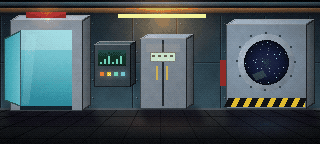
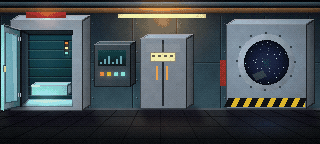
Hinged-door, recess and hanging-garment tools; rebuild the cryo door and the open locker with real depth
Claude-Session: https://claude.ai/code/session_01KMMpWo1pAxVCtPqbSi1RBM

diff --git a/tools/paint/solid.py b/tools/paint/solid.py
@@ -327,3 +327,104 @@ def building(p, x, y, w, h, dx, dy, wall, roof, seed=1):
     mf, mt, ms = box(p, x, y, w, h, dx, dy, wall, seed=seed, tex=0.08)
     p.fill(mt, p.lin(0, y - dy, 0, y, roof, roof), 0.0)
     return mf, mt, ms
+
+
+# ====================================================================== doors and cavities (from the style analysis)
+def _lerp(a, b, t):
+    return a + (b - a) * t
+
+
+def hinged_door(p, hx, y0, y1, dx, base, side=-1, eye=70.0, scale=1.12, panels=2, handle=True, glass=None, seed=1, shade_k=0.78):
+    """A door leaf hinged at x=hx, swung open towards the viewer.
+    The free edge is dx away from the hinge (side=-1: to the left) and is TALLER than the hinge edge (perspective about eye).
+    The leaf has a visible edge (thickness), hinges, inset panels (or a glass pane) and a handle, and throws a shadow."""
+    fx = hx + side * dx
+    ty = eye - (eye - y0) * scale
+    by = eye + (y1 - eye) * scale
+    poly = [(hx, y0), (fx, ty), (fx, by), (hx, y1)]
+
+    def at(u, v):   # u: 0 at the hinge .. 1 at the free edge; v: 0 top .. 1 bottom
+        x = _lerp(hx, fx, u)
+        return (x, _lerp(_lerp(y0, ty, u), _lerp(y1, by, u), v))
+
+    # shadows first: on the wall behind (falls right and down) and on the floor in front of the door
+    soft_shadow(p, [(x + 5, y + 1.5) for x, y in poly], 0.42, 1.0)
+    soft_shadow(p, [(fx, by), (hx, y1), (hx + 12, y1 + 3.5), (fx + 12, by + 3.5)], 0.38, 1.4)
+    # the leaf: its inner face is turned away from the key light, so it is darker than the outer face
+    m = plane(p, poly, base, shade_k, angle=(-1, 0), spread=0.5, tex=0.04, seed=seed, edge=0.5)
+    # thickness: a lit strip on the free edge and a thin strip along the top
+    edge_strip = [(fx, ty), (fx - 2 * (-side) * -1, ty + 0.5), (fx - 2 * (-side) * -1, by - 0.5), (fx, by)]
+    p.fill(p.m_poly([(fx, ty), (fx + side * 2, ty + 0.6), (fx + side * 2, by - 0.6), (fx, by)]), rgb(base) * 1.5 if isinstance(base, str) else base)
+    p.fill(p.m_poly([(fx, ty), (fx + side * 2, ty + 0.6), (fx + side * 2, by - 0.6), (fx, by)]), (255, 255, 255), 0.18)
+    p.fill(p.m_line(hx, y0 - 1, fx, ty - 1, 1), (255, 255, 255), 0.4)
+    # hinge edge: a dark crease and two small hinges
+    p.fill(p.m_line(hx, y0, hx, y1, 2), (0, 0, 0), 0.55)
+    for v in (0.12, 0.86):
+        hy = _lerp(y0, y1, v)
+        p.fill(p.m_rect(hx - 1.5, hy - 2, hx + 1.5, hy + 2), (200, 205, 215))
+        p.fill(p.m_rect(hx - 0.5, hy - 2, hx + 0.5, hy + 2), (60, 64, 76))
+    if glass is not None:
+        a, b, c, d = at(0.14, 0.07), at(0.86, 0.07), at(0.86, 0.93), at(0.14, 0.93)
+        gm = p.m_poly([a, b, c, d])
+        p.fill(gm, rgb(glass) if isinstance(glass, str) else glass, 0.55)
+        p.fill(p.m_poly([at(0.24, 0.1), at(0.42, 0.1), at(0.30, 0.9), at(0.2, 0.9)]) & gm, (255, 255, 255), 0.30)
+        p.edge(gm, (0, 0, 0), 0.5)
+        p.edge(gm, (255, 255, 255), 0.25, "top")
+    else:
+        n = panels
+        for i in range(n):
+            v0 = 0.08 + i * (0.84 / n) + 0.02
+            v1 = 0.08 + (i + 1) * (0.84 / n) - 0.02
+            a, b, c, d = at(0.16, v0), at(0.84, v0), at(0.84, v1), at(0.16, v1)
+            inset = p.m_poly([a, b, c, d])
+            p.fill(inset, (0, 0, 0), 0.16)
+            p.fill(p.m_line(a[0], a[1], b[0], b[1], 1) & m, (0, 0, 0), 0.5)      # top and left inner edges are in shadow
+            p.fill(p.m_line(a[0], a[1], d[0], d[1], 1) & m, (0, 0, 0), 0.4)
+            p.fill(p.m_line(d[0], d[1], c[0], c[1], 1) & m, (255, 255, 255), 0.4)   # bottom and right inner edges catch light
+            p.fill(p.m_line(b[0], b[1], c[0], c[1], 1) & m, (255, 255, 255), 0.3)
+    if handle:
+        hxx, hyy = at(0.86, 0.52)
+        p.fill(p.m_rect(hxx - 1.5, hyy - 3.5, hxx + 1.5, hyy + 3.5), (0, 0, 0), 0.5)
+        p.fill(p.m_rect(hxx - 1, hyy - 3, hxx + 1, hyy + 3), (232, 214, 150))
+        p.fill(p.m_rect(hxx - 1, hyy - 3, hxx, hyy - 2), (255, 255, 255), 0.9)
+    return m
+
+
+def recess(p, x0, y0, x1, y1, d=7.0, wall="#4a5664", back_top="#0a0e14", back_bot="#03050a", floor_c="#8a96a6", seed=1):
+    """An opening with real depth: you see the left inner wall, the roof (dark), the floor (lit) and the back wall.
+    Returns the back wall rectangle (bx0, by0, bx1, by1)."""
+    dt, db = d * 0.6, d * 0.8
+    bx0, by0, bx1, by1 = x0 + d, y0 + dt, x1, y1 - db
+    p.fill(p.m_rect(bx0, by0, bx1, by1), p.lin(0, by0, 0, by1, back_top, back_bot))
+    lw = plane(p, [(x0, y0), (bx0, by0), (bx0, by1), (x0, y1)], wall, 0.62, angle=(-1, 0), spread=0.3, tex=0.03, seed=seed, edge=0.4)
+    plane(p, [(x0, y0), (x1, y0), (x1, by0), (bx0, by0)], wall, 0.3, angle=(0, -1), spread=0.2, tex=0.03, seed=seed + 1, edge=0.4)
+    plane(p, [(x0, y1), (bx0, by1), (x1, by1), (x1, y1)], floor_c, 1.0, angle=(0, -1), spread=0.3, tex=0.03, seed=seed + 2, edge=0.4)
+    # contact darkening where the walls meet the back wall
+    p.fill(p.m_rect(bx0, by0, bx0 + 2, by1), (0, 0, 0), 0.4)
+    p.fill(p.m_rect(bx0, by0, bx1, by0 + 2), (0, 0, 0), 0.4)
+    return bx0, by0, bx1, by1
+
+
+def hanging_garment(p, cx, top, h, base="#d8702a", trim=(240, 236, 226), seed=1):
+    """a uniform on a hanger: sloped shoulders, a V collar, folds, sleeves with cuffs, a hook, and a shadow on the wall behind"""
+    # shadow on the back wall
+    soft_shadow(p, [(cx - 8, top + 4), (cx + 14, top + 4), (cx + 16, top + h), (cx - 6, top + h)], 0.42, 1.2)
+    # hook and hanger
+    p.fill(p.m_line(cx, top - 3, cx, top + 1, 1), (210, 214, 224))
+    p.fill(p.m_poly([(cx - 10, top + 6), (cx, top + 1), (cx + 10, top + 6)]), (150, 154, 168))
+    # sleeves hang behind and beside the body
+    for sx, sgn, k in ((cx - 11, -1, 1.15), (cx + 8, 1, 0.55)):
+        sl = [(cx + sgn * 6, top + 7), (cx + sgn * 11, top + 9), (cx + sgn * 13.5, top + h * 0.78), (cx + sgn * 9, top + h * 0.8)]
+        plane(p, sl, base, k, angle=(-1, 0), spread=0.3, tex=0.04, seed=seed + 3, edge=0.5)
+        p.fill(p.m_poly([sl[3], sl[2], (sl[2][0], sl[2][1] + 3), (sl[3][0], sl[3][1] + 3)]), trim)
+    # body with a lit left side and a darker right side
+    body = [(cx - 7, top + 5), (cx - 3, top + 3), (cx + 3, top + 3), (cx + 7, top + 5), (cx + 8, top + h * 0.92), (cx - 8, top + h * 0.92)]
+    mb = plane(p, body, base, 1.0, angle=(-1, 0), spread=0.9, tex=0.05, seed=seed, edge=0.55)
+    # folds
+    for dx_ in (-4, -1, 3):
+        p.fill(p.m_line(cx + dx_, top + 12, cx + dx_ + 0.5, top + h * 0.9, 1) & mb, (0, 0, 0), 0.32)
+        p.fill(p.m_line(cx + dx_ - 1, top + 12, cx + dx_ - 0.5, top + h * 0.9, 1) & mb, (255, 220, 170), 0.2)
+    # white V collar and the hem band
+    p.fill(p.m_poly([(cx - 4, top + 3), (cx, top + 9), (cx + 4, top + 3), (cx + 2.5, top + 3), (cx, top + 6.5), (cx - 2.5, top + 3)]), trim)
+    p.fill(p.m_rect(cx - 8, top + h * 0.86, cx + 8, top + h * 0.92), trim)
+    p.fill(p.m_line(cx, top + 9, cx, top + h * 0.86, 1), (90, 44, 16), 0.5)

diff --git a/tools/paint/pilot.py b/tools/paint/pilot.py
@@ -60,16 +60,22 @@ def escape_pod(locker_open=False, uniform=True):
     from solid import box as sbox, soft_shadow as sshadow, sphere as ssphere
     sshadow(p, [(6, 108), (92, 108), (100, 124), (10, 126)], 0.55, 3.0)
     fr = sbox(p, 10, 20, 72, 90, 8, 5, "#8e9aa4", seed=2)[0]
-    inner = p.m_rect(20, 30, 72, 106)
-    p.fill(inner, p.lin(0, 30, 0, 106, "#9fe8f0", "#2a8ca0"))
-    p.fill(p.m_rect(20, 30, 72, 50), (255, 255, 255), 0.22)          # frost haze
-    p.fill(p.m_poly([(26, 34), (36, 34), (28, 104), (22, 104)]), (255, 255, 255), 0.14)   # glass glint
-    door = p.m_poly([(20, 30), (4, 38), (4, 100), (20, 106)])
-    p.fill(door, p.lin(4, 0, 20, 0, "#38b4c4", "#79d4e0"))
-    p.edge(door, (0, 0, 0), 0.5)
+    from solid import recess as _recess, hinged_door as _door, hanging_garment as _garment, cylinder_h as _cylh
+    bx0, by0, bx1, by1 = _recess(p, 20, 30, 72, 106, d=8, wall="#4a6a78", back_top="#0e3a48", back_bot="#041820", floor_c="#9ac8d4", seed=20)
+    for yy in range(int(by0) + 6, int(by1) - 4, 9):                                   # ribs on the back wall
+        p.fill(p.m_rect(bx0, yy, bx1, yy + 1), (0, 0, 0), 0.45)
+        p.fill(p.m_rect(bx0, yy + 1, bx1, yy + 2), (150, 230, 240), 0.14)
+    cot = sbox(p, bx0 + 3, by1 - 14, 36, 10, 4, 3, "#7ab8c8", seed=21, tex=0.04)[0]       # the padded cot
+    p.fill(p.m_rect(bx0 + 3, by1 - 14, bx0 + 12, by1 - 12), (240, 250, 255), 0.5)         # pillow
+    p.fill(p.m_rect(bx1 - 8, by0 + 6, bx1 - 3, by0 + 22), (6, 18, 22))                    # status strip with lights
+    for i, c in enumerate([(255, 90, 80), (255, 220, 90), (100, 240, 140)]):
+        p.fill(p.m_rect(bx1 - 7, by0 + 8 + i * 5, bx1 - 4, by0 + 10 + i * 5), c)
+        p.glow(bx1 - 5.5, by0 + 9 + i * 5, 6, c, 0.3)
+    p.glow(46, 98, 40, (160, 255, 255), 0.35, 0.5)                                         # cold mist at the floor of the chamber
+    p.glow(46, 60, 60, (120, 230, 255), 0.14, 1.2)
+    _door(p, 20, 30, 106, 17, "#6aa8b8", side=-1, glass="#9ae8f8", handle=True, seed=22)   # the glass door, swung open to the left
     p.fill(p.m_rect(26, 12, 66, 18), p.lin(0, 12, 0, 18, "#c04040", "#701818"))      # alarm light
     p.glow(46, 15, 26, (255, 70, 60), 0.45, 0.8)
-    p.fill(p.m_rect(20, 106, 72, 110), (20, 40, 50))
     # --- control panel
     sbox(p, 94, 44, 36, 42, 5, 3, "#3a4650", seed=3)
     scr = p.m_rect(98, 50, 126, 66)
@@ -95,21 +101,14 @@ def escape_pod(locker_open=False, uniform=True):
         for k in range(4):
             p.fill(p.m_rect(152 + k * 6, 55, 155 + k * 6, 57), (70, 60, 50), 0.8)
     else:
-        cav = p.m_rect(146, 42, 180, 104)
-        p.fill(cav, p.lin(0, 42, 0, 104, "#0a0d12", "#020304"))
-        dr = p.m_poly([(146, 42), (122, 52), (122, 100), (146, 104)])
-        p.shade(dr, "#707a84", 1.1, 0.6, seed=5)
-        p.edge(dr, (0, 0, 0), 0.55)
-        p.fill(p.m_rect(150, 44, 176, 46), (150, 150, 150))          # hanging rail
+        bx0, by0, bx1, by1 = _recess(p, 146, 42, 180, 104, d=7, wall="#566270", back_top="#12161e", back_bot="#05070a", floor_c="#7a8694", seed=30)
+        p.fill(p.m_rect(bx0, by0 + 2, bx1, by0 + 5), (150, 156, 168))                       # the hanging rail across the back
+        p.fill(p.m_rect(bx0, by0 + 2, bx1, by0 + 3), (255, 255, 255), 0.5)
+        p.fill(p.m_rect(bx0, by0 + 5, bx1, by0 + 6), (0, 0, 0), 0.5)
         if uniform:
-            body = p.m_poly([(152, 50), (174, 50), (176, 92), (150, 92)])
-            p.shade(body, "#d8702a", 1.25, 0.55, tex=0.08, seed=6)
-            p.fill(p.m_rect(152, 50, 174, 55), (240, 236, 226))     # white collar trim
-            p.fill(p.m_poly([(150, 56), (146, 80), (152, 80), (154, 58)]), (216, 112, 44))
-            p.fill(p.m_poly([(176, 56), (180, 80), (174, 80), (172, 58)]), (216, 112, 44))
-            p.fill(p.m_rect(150, 88, 176, 92), (240, 236, 226))
-            p.fill(p.m_rect(162, 54, 164, 90), (70, 40, 16), 0.5)
-        p.glow(163, 70, 30, (255, 170, 80), 0.18)
+            _garment(p, (bx0 + bx1) / 2 + 1, by0 + 7, 38, seed=31)
+        p.glow((bx0 + bx1) / 2, by0 + 20, 30, (255, 170, 80), 0.14)
+        _door(p, 146, 42, 104, 22, "#7c8690", side=-1, panels=2, handle=True, seed=32)       # the locker door, swung open to the left
     # --- airlock hatch with a porthole onto the junk-filled dark
     sshadow(p, [(224, 106), (314, 106), (318, 124), (230, 126)], 0.5, 3.0)
     sbox(p, 226, 24, 80, 84, 8, 5, "#7a8a96", seed=7)
